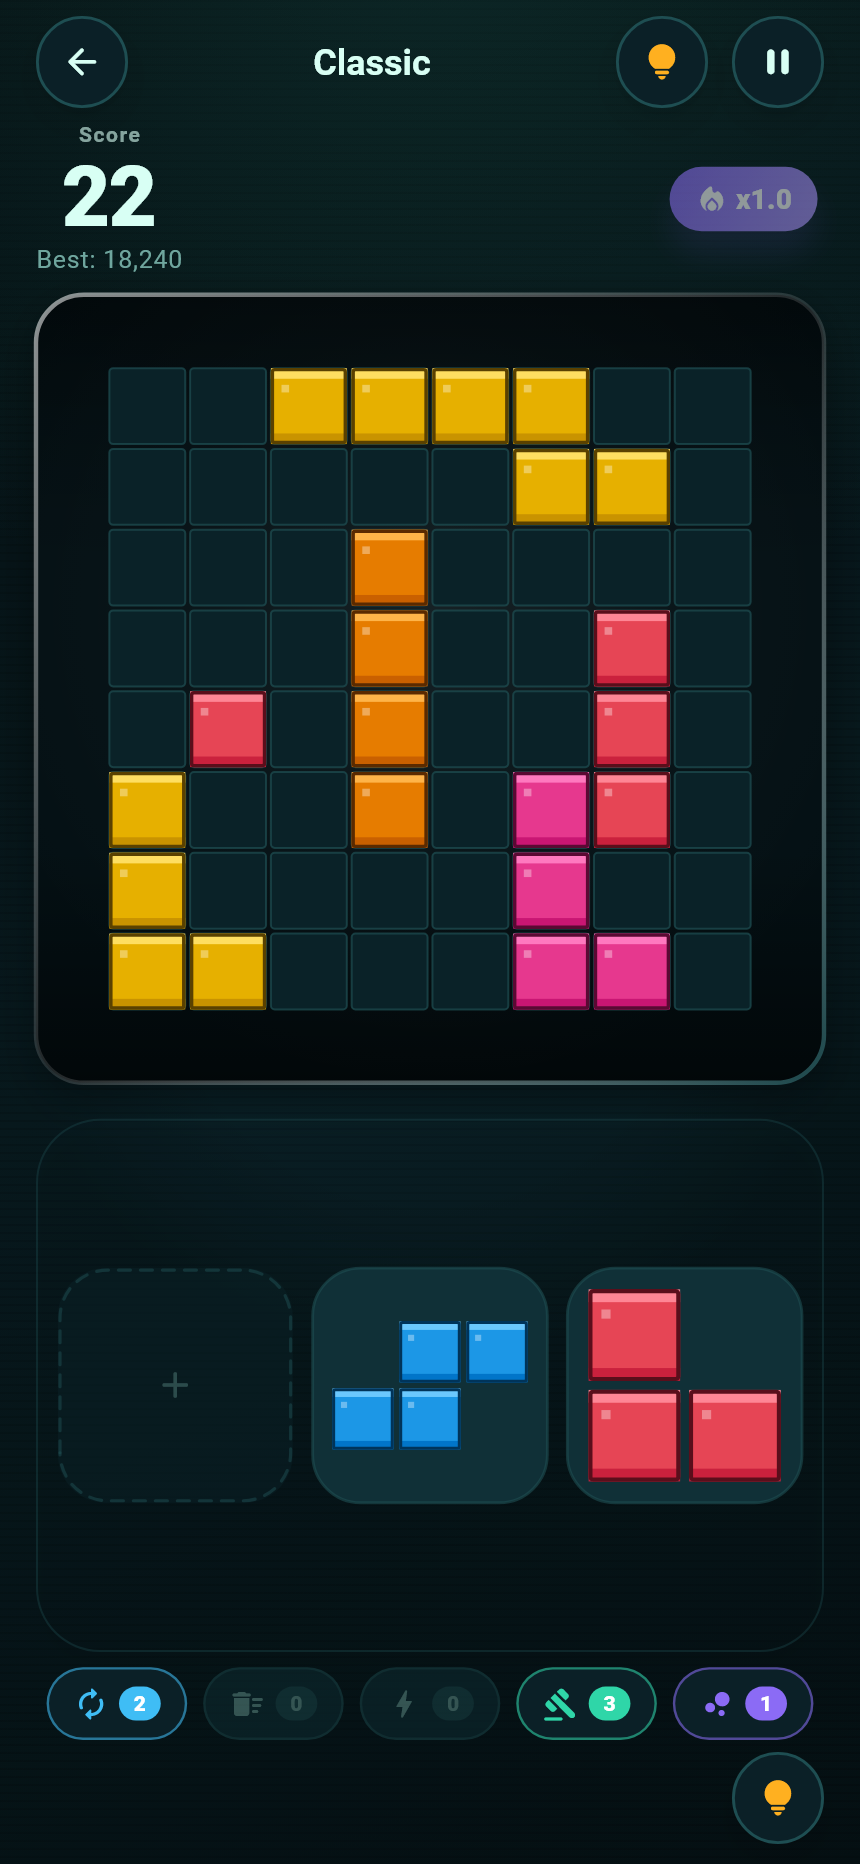
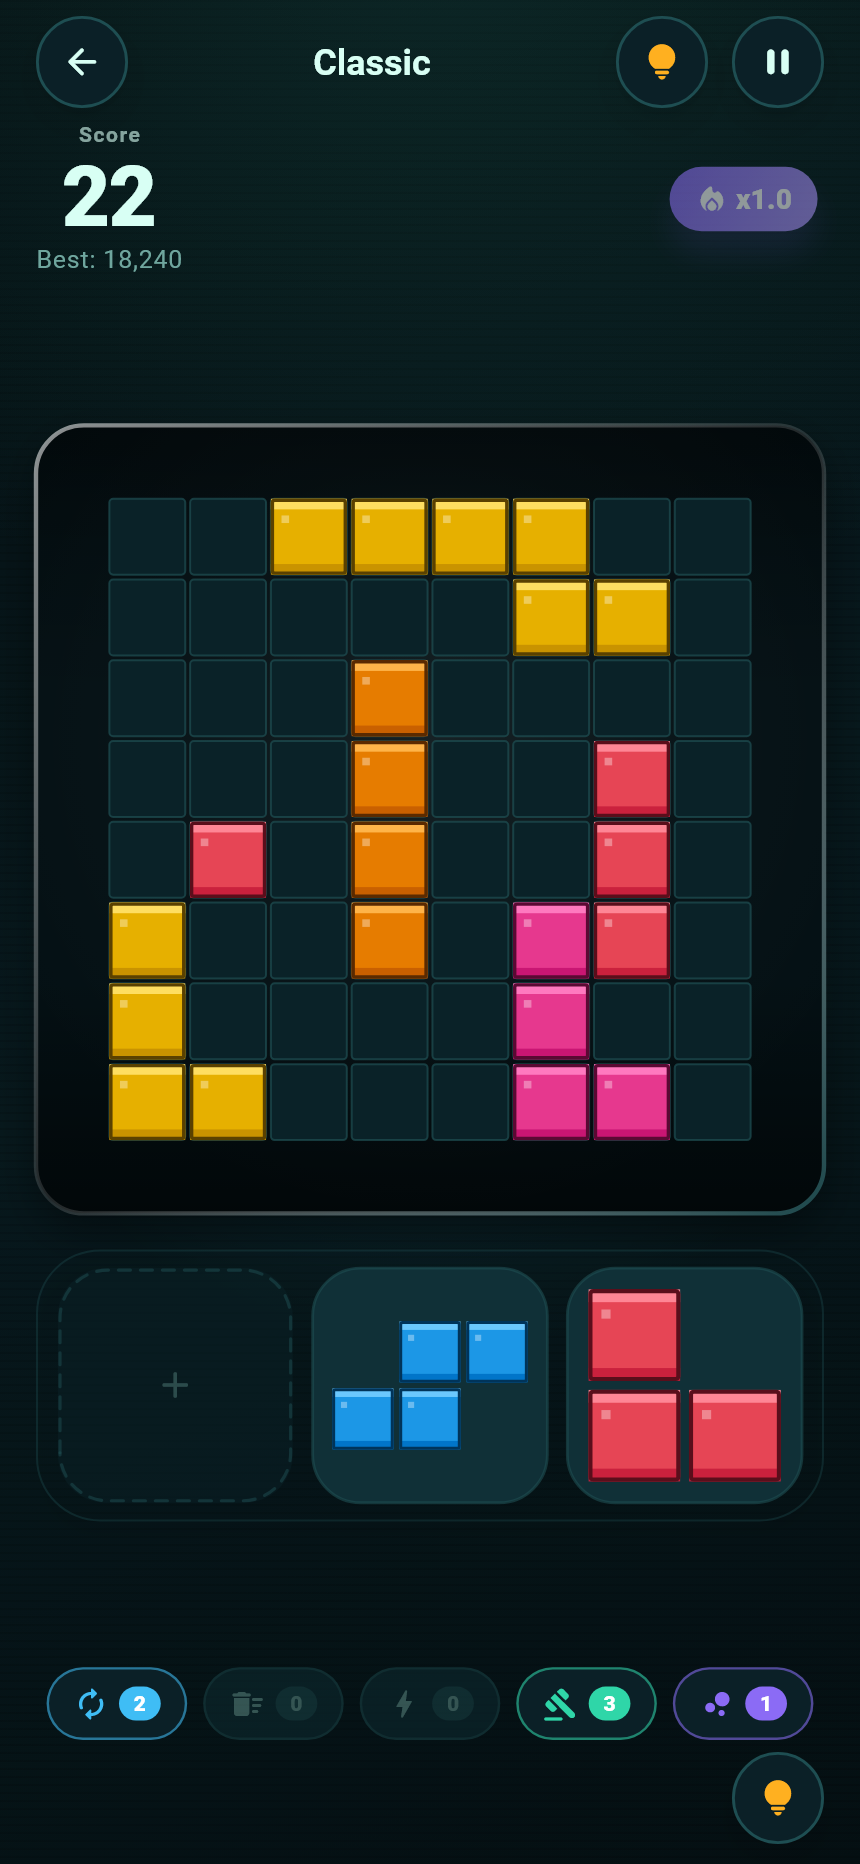
Tighten the play layout and rebuild the end-of-run summary as even tiles

diff --git a/lib/screens/game/widgets/game_over_dialog.dart b/lib/screens/game/widgets/game_over_dialog.dart
@@ -208,52 +208,100 @@ class _SummaryGrid extends StatelessWidget {
     final AppPalette palette = AppPalette.of(context);
     final AppStrings strings = AppStrings.of(context);
 
-    Widget cell(String label, String value, Color color) {
-      return Expanded(
-        child: Container(
-          margin: const EdgeInsets.symmetric(horizontal: 3),
-          padding: const EdgeInsets.symmetric(vertical: 10, horizontal: 6),
-          decoration: BoxDecoration(
-            color: color.withOpacity(0.10),
-            borderRadius: BorderRadius.circular(AppRadius.md),
-          ),
-          child: Column(
-            children: <Widget>[
-              Text(
-                value,
-                style: Theme.of(context).textTheme.titleMedium?.copyWith(
-                      color: color,
-                      fontWeight: FontWeight.w800,
+    /// One summary tile: icon, label, value. The value is scaled down rather
+    /// than wrapped, so a long play time ("12m 04s") never breaks the grid.
+    Widget cell(String label, String value, Color color, IconData icon) {
+      final Color ink = palette.isDark ? color : AppColors.ink(color);
+      return Container(
+        padding: const EdgeInsets.symmetric(vertical: 10, horizontal: 12),
+        decoration: BoxDecoration(
+          color: color.withValues(alpha: palette.isDark ? 0.10 : 0.16),
+          borderRadius: BorderRadius.circular(AppRadius.md),
+          border: Border.all(color: ink.withValues(alpha: 0.16)),
+        ),
+        child: Row(
+          children: <Widget>[
+            Icon(icon, size: 18, color: ink),
+            const SizedBox(width: 8),
+            Expanded(
+              child: Column(
+                crossAxisAlignment: CrossAxisAlignment.start,
+                mainAxisSize: MainAxisSize.min,
+                children: <Widget>[
+                  Text(
+                    label,
+                    maxLines: 1,
+                    overflow: TextOverflow.ellipsis,
+                    style: Theme.of(context)
+                        .textTheme
+                        .labelSmall
+                        ?.copyWith(color: palette.textMuted),
+                  ),
+                  const SizedBox(height: 1),
+                  FittedBox(
+                    fit: BoxFit.scaleDown,
+                    alignment: Alignment.centerLeft,
+                    child: Text(
+                      value,
+                      maxLines: 1,
+                      style: Theme.of(context).textTheme.titleMedium?.copyWith(
+                            color: ink,
+                            fontWeight: FontWeight.w800,
+                          ),
                     ),
+                  ),
+                ],
               ),
-              const SizedBox(height: 2),
-              Text(
-                label,
-                textAlign: TextAlign.center,
-                style: Theme.of(context)
-                    .textTheme
-                    .labelSmall
-                    ?.copyWith(color: palette.textMuted),
-              ),
-            ],
-          ),
+            ),
+          ],
         ),
       );
     }
 
-    return Row(
+    return Column(
       children: <Widget>[
-        cell(
-          strings.t('game.best'),
-          ScoreFormat.number(summary.previousBest),
-          AppColors.amber,
+        Row(
+          children: <Widget>[
+            Expanded(
+              child: cell(
+                strings.t('game.best'),
+                ScoreFormat.number(summary.previousBest),
+                AppColors.amber,
+                Icons.emoji_events_rounded,
+              ),
+            ),
+            const SizedBox(width: 8),
+            Expanded(
+              child: cell(
+                strings.t('game.combo'),
+                'x${summary.bestCombo}',
+                AppColors.magenta,
+                Icons.local_fire_department_rounded,
+              ),
+            ),
+          ],
         ),
-        cell(strings.t('game.combo'), 'x${summary.bestCombo}', AppColors.magenta),
-        cell(strings.t('score.lines'), '${summary.linesCleared}', AppColors.mint),
-        cell(
-          strings.t('stats.playTime'),
-          ScoreFormat.duration(Duration(seconds: summary.playSeconds)),
-          AppColors.sky,
+        const SizedBox(height: 8),
+        Row(
+          children: <Widget>[
+            Expanded(
+              child: cell(
+                strings.t('score.lines'),
+                '${summary.linesCleared}',
+                AppColors.mint,
+                Icons.stacked_line_chart_rounded,
+              ),
+            ),
+            const SizedBox(width: 8),
+            Expanded(
+              child: cell(
+                strings.t('stats.playTime'),
+                ScoreFormat.duration(Duration(seconds: summary.playSeconds)),
+                AppColors.sky,
+                Icons.timer_outlined,
+              ),
+            ),
+          ],
         ),
       ],
     );

diff --git a/lib/game/widgets/game_board_view.dart b/lib/game/widgets/game_board_view.dart
@@ -470,6 +470,13 @@ void _onTick(Duration elapsed) {
         final double trayHeight =
             trayOnSide ? trayExtent : area.height - boardSide - gap;
 
+        // The slot cards are square, so the shelf never needs more height than
+        // one slot plus its padding. Any extra height becomes symmetric
+        // breathing room around the board instead of a hollow card.
+        final double slotSide = math.max(0, (area.width - 40) / 3);
+        final double dockHeight =
+            trayOnSide ? trayHeight : math.min(trayHeight, slotSide + 18);
+
         final Size boardArea = trayOnSide
             ? Size(area.width - trayExtent - gap, area.height)
             : Size(boardSide, boardSide);
@@ -557,7 +564,7 @@ final Widget boardStack = AnimatedScale(
         );
 
         final Widget tray = SizedBox(
-          height: trayOnSide ? null : trayHeight,
+          height: trayOnSide ? null : dockHeight,
           width: trayOnSide ? trayExtent : null,
           child: PieceTray(
             controller: _controller,
@@ -585,10 +592,11 @@ final Widget boardStack = AnimatedScale(
                   ],
                 )
               : Column(
+                  mainAxisAlignment: MainAxisAlignment.center,
                   children: <Widget>[
                     Center(child: boardStack),
                     const SizedBox(height: gap),
-                    tray,
+                    Center(child: tray),
                   ],
                 ),
         );
